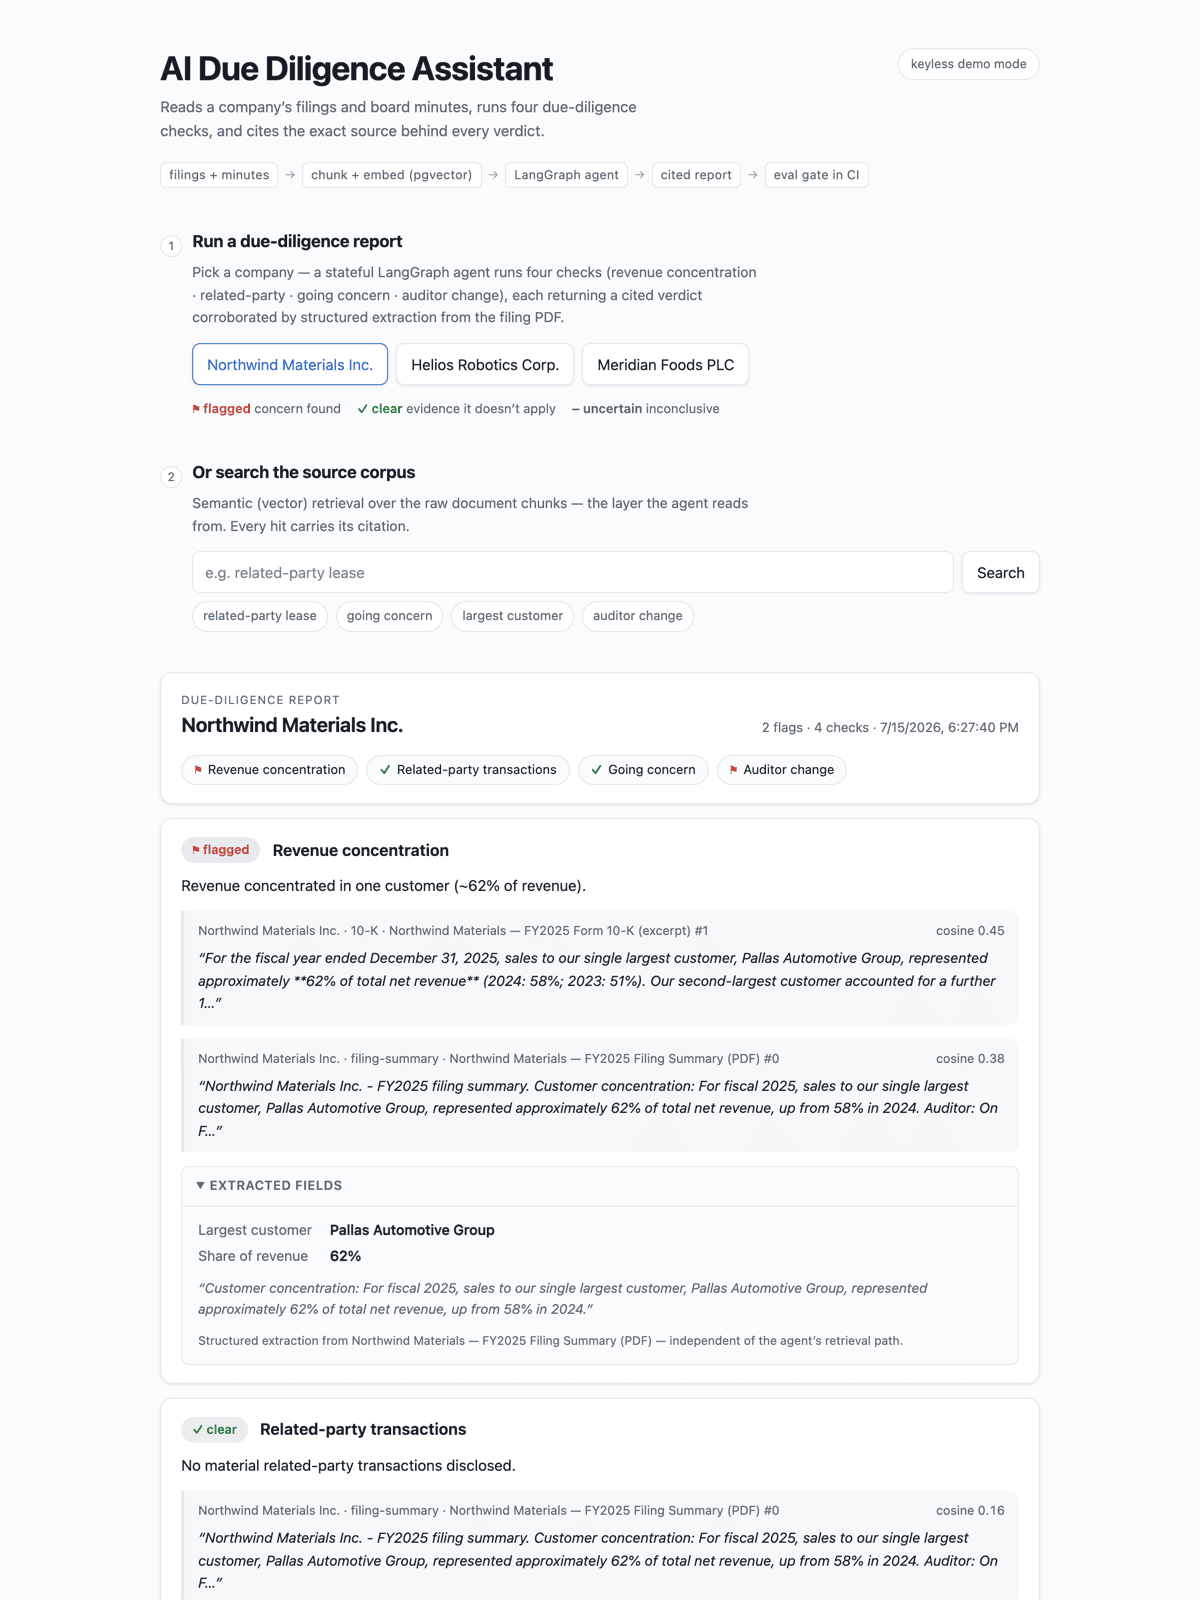
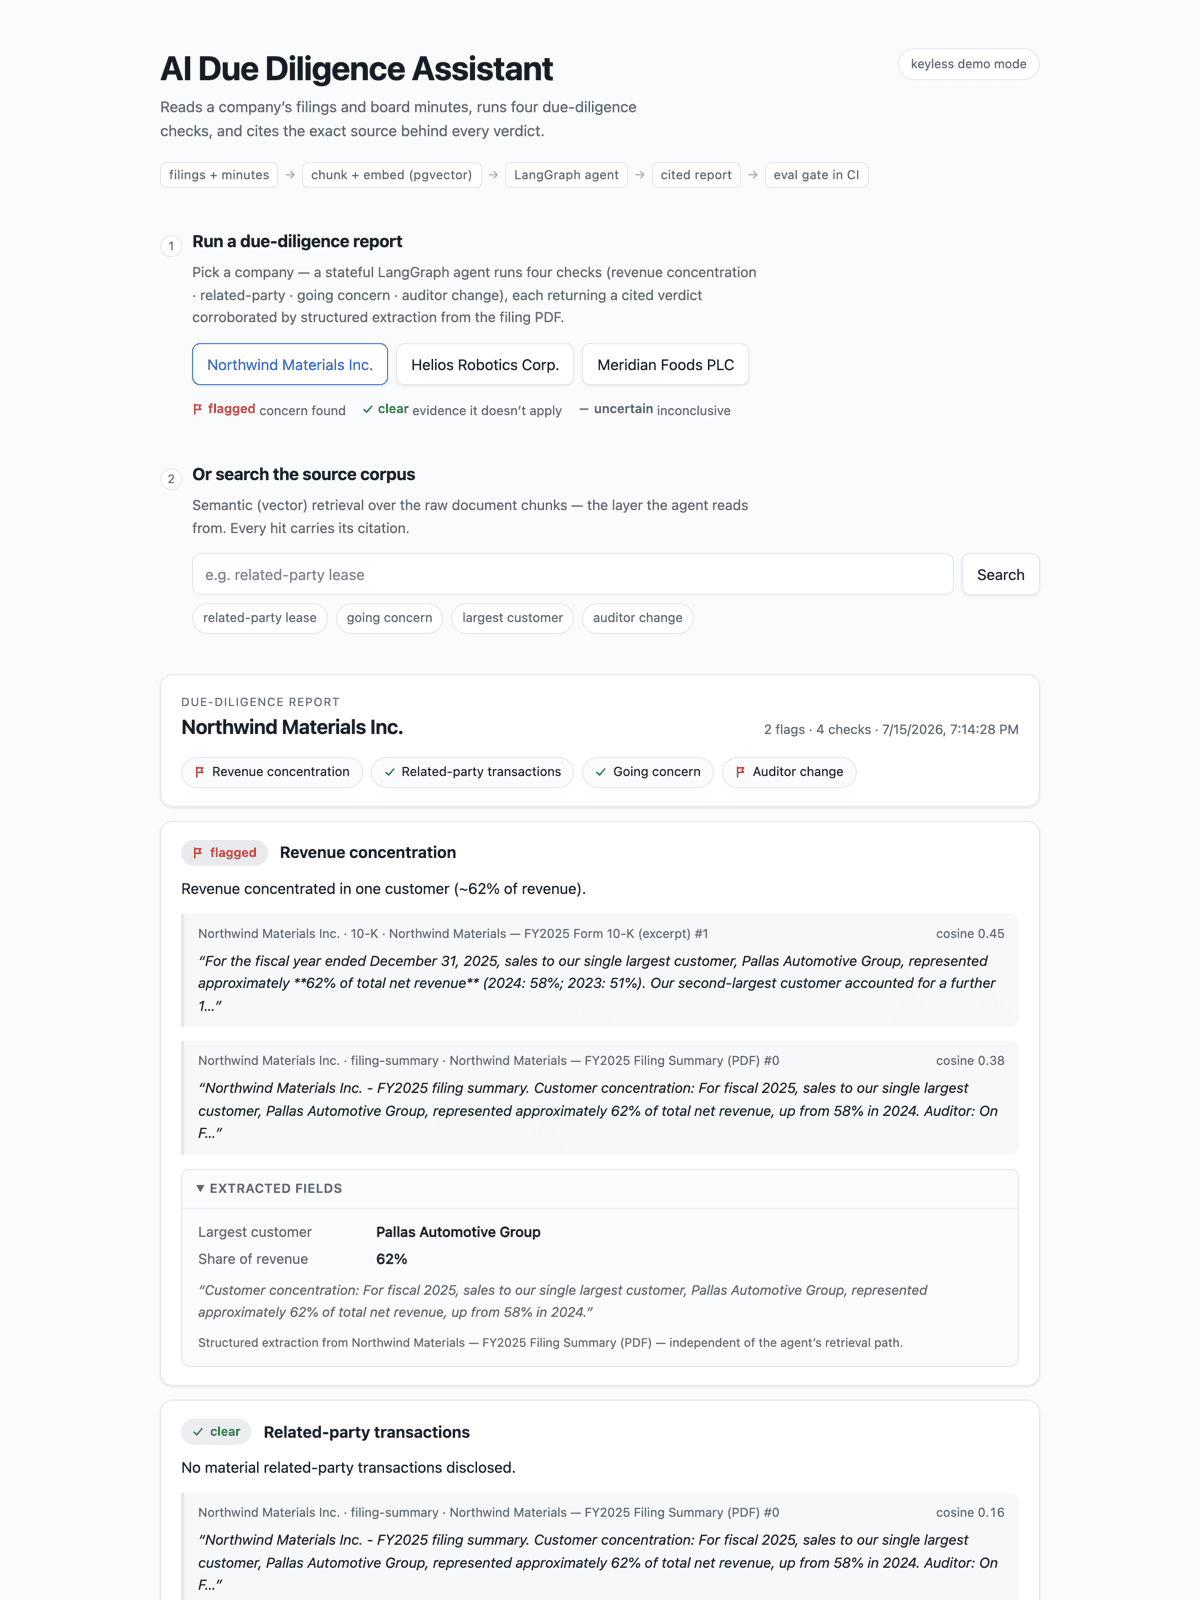
docs: ADR 0003 (React frontend), M7 status, refreshed screenshots
Supersedes the no-build-step property of the M5 demo page; README/CLAUDE.md/
case study updated to the web/ layout and new test surface.

diff --git a/docs/adr/0003-react-frontend.md b/docs/adr/0003-react-frontend.md
@@ -1,0 +1,74 @@
+# ADR 0003 — React + Vite frontend for the demo page
+
+## Status
+
+Accepted (2026-07-15)
+
+## Context
+
+M5 shipped the demo page as a single self-contained static HTML file (vanilla
+CSS/JS, no build step, no external requests) — a deliberate constraint: keep
+every layer walkable cold, and keep the browser surface trivial next to the
+headline (the eval harness). The M6-era redesign kept that constraint and even
+pinned it with a CI contract test.
+
+Two forces changed the calculus. First, the portfolio goal widened: the project
+should also demonstrate **React/TypeScript frontend skill**, not only a tasteful
+static page — component architecture, typed data flow, and frontend testing are
+themselves interview artefacts. Second, the page had grown real UI state
+(parallel report + extraction fetches, races between clicks, loading/error
+states) that string-concatenated `innerHTML` expresses poorly and untestably.
+
+## Decision
+
+We will rebuild the demo as a **React 19 + Vite** app in `web/`, building into
+`public/` — the directory Fastify already serves — so the server keeps zero
+knowledge of the frontend toolchain.
+
+- **One package, no workspace split.** React, Vite, and Testing Library are
+  devDependencies of the root package; `vite build` is the only new build step
+  (`npm run build:web`, run automatically by `pretest`, `make serve`, and a
+  dedicated Docker stage). The runtime image ships only the static output.
+- **Shared types across the stack.** The client imports its API types
+  (`Report`, `Citation`, `CitedChunk`, `DocumentExtraction`, `Extraction`)
+  type-only from the server source — one definition; a server shape change
+  fails the frontend typecheck.
+- **Component tests in CI.** Testing Library + jsdom cover the report flow,
+  progressive enhancement (a failed `/extract` never blocks the report), and
+  rate-limit errors; the reworked contract test asserts the _built artifact_
+  (shell + hashed assets serve, the bundle calls every API surface, styles keep
+  the light/dark contract, nothing loads from another origin).
+- **Same design system.** The tokens, layout, and accessibility work from the
+  M28 redesign carry over unchanged; the self-hosted property (no CDN, no
+  external requests) is retained even though the file count grew.
+
+This supersedes the "no build step" property of the M5 demo page decision (the
+demo-page portion of ADR 0001's deploy story; ADR 0001's stack and deploy
+decisions otherwise stand). The keyless-by-default posture is unchanged.
+
+## Consequences
+
+### Positive
+
+- The repo now demonstrates typed React component architecture, hooks-based
+  state (a discriminated-union view model, stale-response protection), and
+  frontend testing — a second interview artefact beside the agent/eval system.
+- UI state is testable: 29 keyless tests now include component and contract
+  coverage that the innerHTML page could not support.
+- Type sharing turns API drift into a compile error instead of a runtime bug.
+
+### Negative
+
+- A build step exists: Docker gained a `web` stage, `make serve` builds before
+  serving, and `pretest` rebuilds (~0.5 s) on every test run.
+- The served bundle is ~64 kB gzipped (React's cost) versus ~4 kB for the
+  static page.
+- The page is no longer readable as one file; walking it cold now means
+  walking a component tree.
+
+### Neutral
+
+- `public/` is build output and gitignored; the committed frontend source of
+  truth moved to `web/`.
+- Frontend hot-reload is `npm run dev:web` (Vite dev server proxying the API
+  to :3000); the served build remains the source of truth for tests.

diff --git a/README.md b/README.md
@@ -16,7 +16,7 @@
 
 **An AI due-diligence assistant** that ingests a target company's filings, board minutes, and public commentary, runs structured due-diligence checks via a stateful **LangGraph.js** agent, and produces an **audit-grade report with cited sources** — plus a **CI-runnable evaluation harness** that scores its own answers. A portfolio project by [Ed Chapman](https://github.com/edjchapman) demonstrating end-to-end ownership of a production-shaped LLM system in **TypeScript/Node.js**: design, build, deploy, operate, evaluate.
 
-> **Status: `M6` (PDF ingestion + structured extraction).** The full system is in place: PDF/Markdown
+> **Status: `M7` (typed React frontend — [ADR 0003](docs/adr/0003-react-frontend.md)).** The full system is in place: PDF/Markdown
 > ingest → cited retrieval → a LangGraph.js agent (`GET /report/:company`) → an **eval harness that
 > scores every finding against a golden set and runs in CI on every push** (see [Evaluation](#evaluation)).
 > M6 adds the "front half": a real filing **PDF** is decoded (keyless) and structured into typed DD
@@ -244,16 +244,19 @@ Two honest layers:
   EMBED_PROVIDER=openai LLM_PROVIDER=anthropic JUDGE_PROVIDER=anthropic npm run eval
   ```
 
-## Demo page & deploy
+## Demo app & deploy
 
-A minimal demo page (served at `/`) runs a cited report per company and searches the corpus —
-no build step or framework, one self-contained static HTML file calling the API (screenshot
-above). Each report opens with a per-check **verdict strip**, then one card per check showing the
-agent's summary, **every citation** (source · chunk · cosine score), and the **structured fields
-read from the filing PDF** (`GET /extract/:company`) so the extraction corroborates the agent's
-verdict side-by-side. Light/dark theme follows the OS; loading skeletons and error states are
-plain CSS. Public endpoints (`/search`, `/report`, `/extract`, `/companies`) are rate-limited to
-60/min/IP; `/health` is exempt for platform probes.
+The demo (served at `/`) is a **typed React 19 + Vite app** (`web/`, built into `public/` —
+[ADR 0003](docs/adr/0003-react-frontend.md)) that runs a cited report per company and searches
+the corpus (screenshot above). Its API types are imported **from the server source** — one
+definition of `Report`, `Citation`, and `Extraction` across the stack, so an API shape change
+fails the frontend typecheck. Each report opens with a per-check **verdict strip**, then one card
+per check showing the agent's summary, **every citation** (source · chunk · cosine score), and
+the **structured fields read from the filing PDF** (`GET /extract/:company`) so the extraction
+corroborates the agent's verdict side-by-side. Light/dark theme follows the OS; component tests
+(Testing Library + jsdom) and a built-artifact contract test run keyless in CI. It stays fully
+self-hosted — no CDN, no external requests. Public endpoints (`/search`, `/report`, `/extract`,
+`/companies`) are rate-limited to 60/min/IP; `/health` is exempt for platform probes.
 
 It's **live on Railway** at <https://app-production-e60e.up.railway.app> (config in
 [`railway.json`](railway.json): one Docker image, `/health` probe). The container is **keyless by
@@ -284,9 +287,10 @@ For the **real** semantic + Claude-reasoned path in production, set `EMBED_PROVI
 ## Development
 
 ```bash
-npm run typecheck   # tsc (strict)
-npm run lint        # eslint (type-checked)
-npm test            # vitest — set RUN_DB_TESTS=1 (+ a live DB) for the DB-backed tests
+npm run typecheck   # tsc (strict) — server and web projects
+npm run lint        # eslint (type-checked, + react-hooks for web/)
+npm test            # vitest — builds web/ first; RUN_DB_TESTS=1 (+ a live DB) adds the DB-backed tests
+npm run dev:web     # Vite dev server with hot reload (proxies the API to :3000)
 make check          # the full gate CI runs: typecheck + lint + format + test
 make eval           # the eval harness (keyless)
 ```
@@ -299,6 +303,7 @@ make eval           # the eval harness (keyless)
 - [x] **M4** — eval harness (golden set + LLM-as-judge) scoring the agent, running in CI (`12/12`).
 - [x] **M5** — demo page + rate-limited endpoints + [case study](docs/case-study.md); **deployed live on Railway** ([demo](https://app-production-e60e.up.railway.app)).
 - [x] **M6** — PDF ingestion (keyless `unpdf`) + structured extraction (`GET /extract/:company`) with a field-level precision/recall/F1 test ([ADR 0002](docs/adr/0002-pdf-extraction.md)).
+- [x] **M7** — typed React 19 + Vite frontend (`web/`) with shared server types, component tests, and a built-artifact contract test in CI ([ADR 0003](docs/adr/0003-react-frontend.md)).
 
 ## License
 

diff --git a/docs/case-study.md b/docs/case-study.md
@@ -76,13 +76,15 @@ Ingest CLI ─▶ Postgres + pgvector ─▶ Fastify API ─▶ LangGraph.js age
   TypeScript. Amazon Textract (OCR / scanned filings) is a documented swap; see
   [ADR 0002](adr/0002-pdf-extraction.md).
 
-- **A demo UI that shows the system, not a chat box.** The public demo page is one
-  self-contained static HTML file (no build step, no framework, no external requests — it works
-  offline behind the rate limit). A report opens with a per-check verdict strip, then one card
-  per check pairing the agent's cited verdict with the **structured fields extracted from the
-  filing PDF** — two independent paths over the same source, corroborating each other on screen.
-  Light/dark follows the OS; a keyless contract test in CI pins the page to the API surface it
-  calls.
+- **A demo UI that shows the system, not a chat box.** The public demo is a typed **React 19 +
+  Vite** app whose API types are imported from the server source — one definition of `Report`,
+  `Citation`, and `Extraction` across the stack, so an API change fails the frontend typecheck.
+  A report opens with a per-check verdict strip, then one card per check pairing the agent's
+  cited verdict with the **structured fields extracted from the filing PDF** — two independent
+  paths over the same source, corroborating each other on screen. Light/dark follows the OS;
+  component tests (Testing Library) and a built-artifact contract test run keyless in CI, and
+  the app stays fully self-hosted (no CDN, no external requests). See
+  [ADR 0003](adr/0003-react-frontend.md).
 
 - **A quality gate that reads like senior code.** Strict TypeScript, type-checked ESLint,
   Prettier, and a `make check` gate mirrored in CI and a pre-commit hook. `make demo` and

diff --git a/CLAUDE.md b/CLAUDE.md
@@ -41,6 +41,13 @@ is measured, not asserted. Built deliberately in **TypeScript/Node.js** (see `do
   and in the demo. A keyless field-level **precision/recall/F1** test (`test/extract.test.ts` vs
   `src/golden-extract.ts`) rides `npm test`. The eval stays `12/12` — the PDF fixtures reinforce the
   planted signals. See [ADR 0002](docs/adr/0002-pdf-extraction.md). Textract is a documented swap.
+- **M7 — done ✅** Typed React frontend: the demo is a **React 19 + Vite** app (`web/`, built into
+  `public/` which Fastify serves — [ADR 0003](docs/adr/0003-react-frontend.md)). API types are
+  imported type-only **from the server source** (one `Report`/`Citation`/`Extraction` definition
+  across the stack); state is a discriminated-union view model with stale-response protection.
+  Component tests (Testing Library + jsdom) and a built-artifact contract test (`test/ui.test.ts`)
+  ride `npm test` keyless — `pretest` runs `vite build`, so `public/` is build output (gitignored;
+  a dedicated Docker stage builds it for deploys). Frontend hot-reload: `npm run dev:web`.
 
 **Provider switches (keep demos/CI keyless):** `EMBED_PROVIDER=local` (lexical embedder),
 `LLM_PROVIDER=local` (heuristic reasoner), `JUDGE_PROVIDER=local` (verdict-match judge), and
@@ -68,7 +75,9 @@ Full rationale: [`docs/adr/0001-stack-and-deploy.md`](docs/adr/0001-stack-and-de
 
 ```
 src/server.ts      Fastify factory (async buildServer) — /, /health, /companies, /search, /report, /extract; rate-limited
-public/index.html  demo page (served at /) — self-contained, light/dark; verdict strip, cited findings + /extract fields
+web/               React 19 + Vite demo app — typed api client (imports server types), components, jsdom tests
+public/            BUILD OUTPUT of web/ (gitignored) — `npm run build:web`; served at / by Fastify
+vite.config.ts     Vite config: root web/, outDir public/, dev-server proxy to :3000
 railway.json       Railway deploy config (Dockerfile, /health probe)
 src/index.ts       entrypoint (listen)
 src/chunk.ts       paragraph-aware text chunker (pure)
@@ -92,6 +101,7 @@ scripts/generate-pdf-fixtures.ts  `npm run fixtures:pdf` — regenerate the comm
 fixtures/          reference-company docs (md + filing-summary.pdf) + manifest.json (planted DD signals)
 drizzle/           generated migrations (0000 also CREATE EXTENSION vector; 0001 adds documents.extraction)
 test/              Vitest specs (health/chunk/reasoner/extract/ui keyless; retrieval/agent/eval on RUN_DB_TESTS)
+                   + web/src/*.test.{ts,tsx} — React component tests (jsdom), also keyless
 docs/adr/          architecture decision records
 ```
 